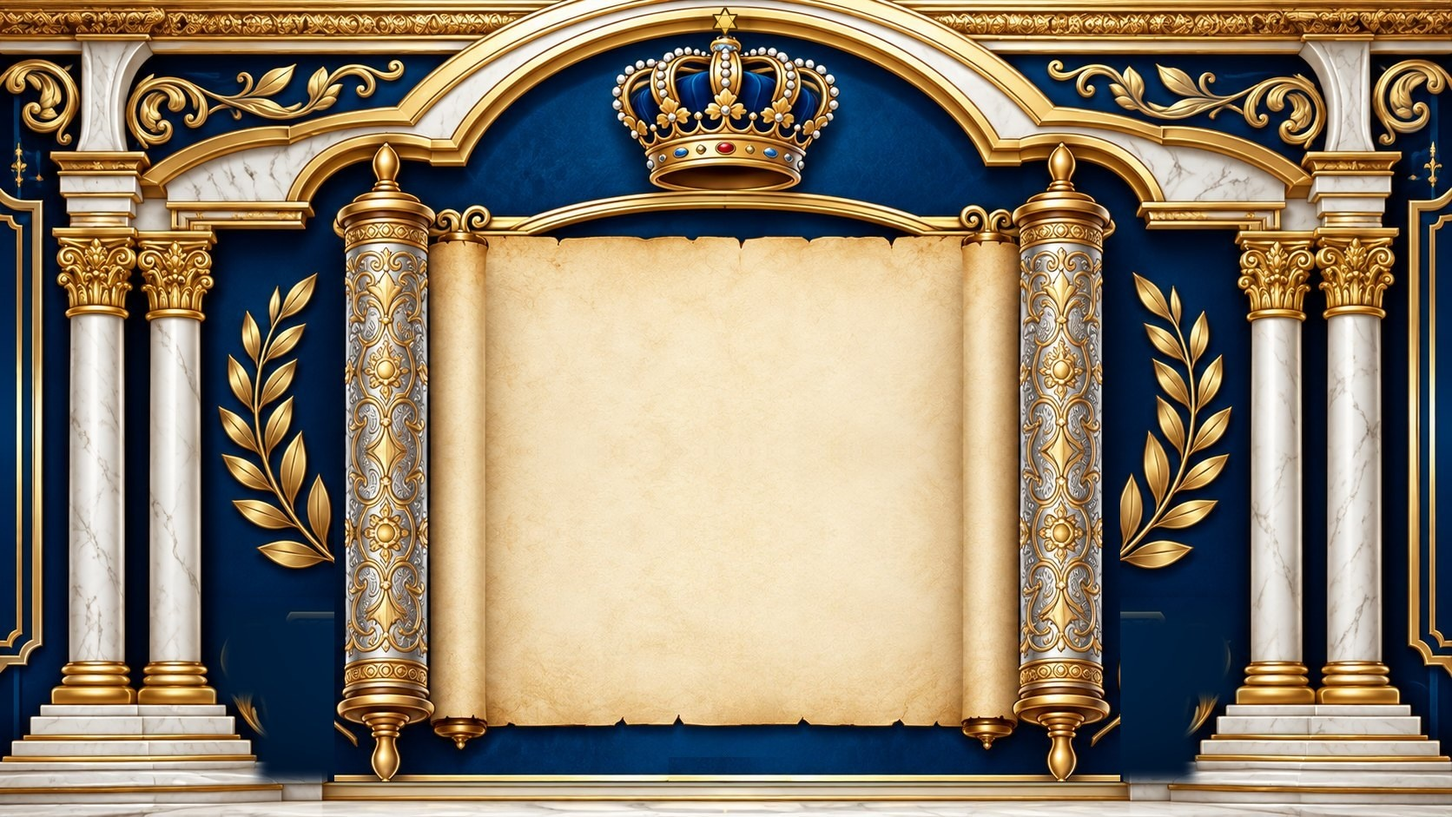
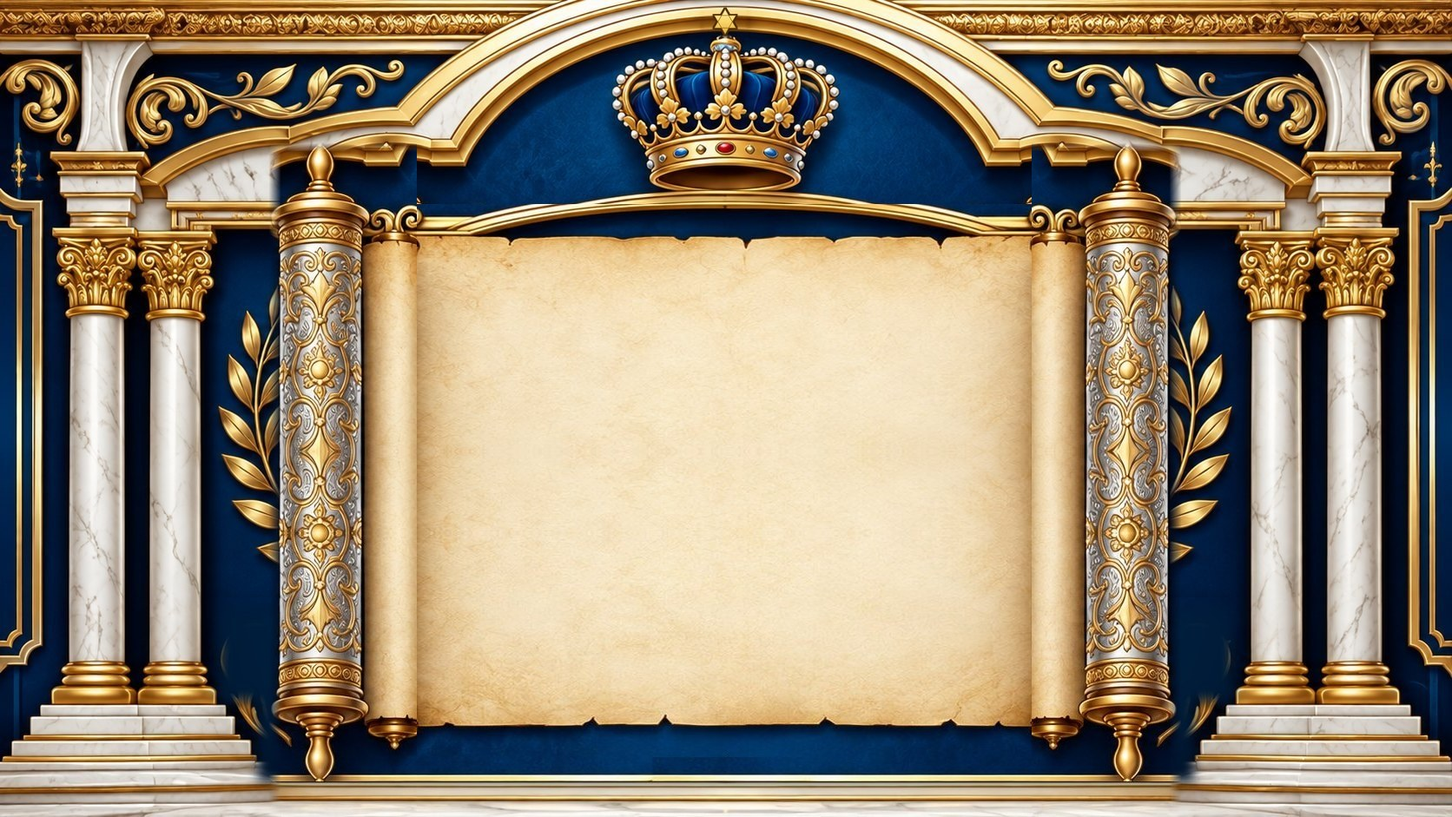
Wider scroll parchment, whole psalm chapter by default (340 letters/page), lessons ordered by days, sw v86
Claude-Session: https://claude.ai/code/session_019PHtGJZNovGA8exQxnNc5q

diff --git a/app/admin/tabs/ContentTab.js b/app/admin/tabs/ContentTab.js
@@ -281,7 +281,7 @@ function Sponsors({ sid, cols }) {
 
 /** ---- daily psalm: Tehilim of the day (auto by the Hebrew day of month / manual chapter / custom text), full-screen slide with live preview ---- */
 function PsalmsDaily({ st, set }) {
-  const c = { ...PS_DEFAULT, ...(st.psalmsConfig || {}) }, h = hebOf(new Date(), false), abs = nowAbs(h), pages = psalmsPages(c, h, abs, c.show === 'block' ? 120 : 230), [pi0, setPi] = useState(0), pi = Math.min(pi0, Math.max(0, pages.length - 1)), cur = pages[pi];
+  const c = { ...PS_DEFAULT, ...(st.psalmsConfig || {}) }, h = hebOf(new Date(), false), abs = nowAbs(h), pages = psalmsPages(c, h, abs, c.show === 'block' ? 120 : 340), [pi0, setPi] = useState(0), pi = Math.min(pi0, Math.max(0, pages.length - 1)), cur = pages[pi];
   const tot = pages.length * Math.min(30, Math.max(5, +c.duration || 15)), mm = Math.floor(tot / 60), ss = tot % 60;
   const M = [['auto', 'אוטומטי · לפי היום בחודש העברי'], ['manual', 'ידני · פרק מסוים'], ['custom', 'טקסט מותאם']];
   return (<>
@@ -291,7 +291,7 @@ function PsalmsDaily({ st, set }) {
       <label>איפה להציג</label>
       <div className="pills" style={{ flexWrap: 'wrap' }}>{[['full', '🖥 מסך מלא'], ['block', '🎞 בקרוסלה (בלוח המרכזי)']].map(([k, l]) => <button key={k} className={`opt ${(c.show || 'full') === k ? 'on' : ''}`} onClick={() => { set('psalmsConfig.show', k); setPi(0); }}>{l}</button>)}</div>
       <label>קצב התצוגה</label>
-      <div className="pills" style={{ flexWrap: 'wrap' }}>{[['page', 'עמוד אחד בכל סבב (מומלץ)'], ['whole', 'כל הפרק ברצף']].map(([k, l]) => <button key={k} className={`opt ${(c.pace || 'page') === k ? 'on' : ''}`} onClick={() => set('psalmsConfig.pace', k)}>{l}</button>)}</div>
+      <div className="pills" style={{ flexWrap: 'wrap' }}>{[['whole', 'כל הפרק ברצף, ואז ממשיכות השקופיות (מומלץ)'], ['page', 'עמוד אחד בכל סבב']].map(([k, l]) => <button key={k} className={`opt ${(c.pace || 'whole') === k ? 'on' : ''}`} onClick={() => set('psalmsConfig.pace', k)}>{l}</button>)}</div>
       <label>תדירות</label>
       <select value={c.every || 1} onChange={(e) => set('psalmsConfig.every', +e.target.value)}>{[1, 2, 3, 5, 10].map((n) => <option key={n} value={n}>{n === 1 ? 'בכל סבב של הקרוסלה' : `פעם ב-${n} סבבים`}</option>)}</select>
       <label>מצב</label>
@@ -301,7 +301,7 @@ function PsalmsDaily({ st, set }) {
       {c.mode === 'custom' && <><label>כותרת</label><TextIn value={c.customTitle} onSave={(v) => set('psalmsConfig.customTitle', v)} /><label>הטקסט (כל שורה = פסקה)</label><TextIn value={c.customText} onSave={(v) => { set('psalmsConfig.customText', v); setPi(0); }} area /></>}
       <label>הקדשה מיוחדת מעל הפרק (למשל: לרפואת …)</label><TextIn value={c.dedicationText} onSave={(v) => set('psalmsConfig.dedicationText', v)} />
       <Range label="זמן תצוגה לכל עמוד (שניות, עד 30)" min={5} max={30} value={c.duration} onChange={(v) => set('psalmsConfig.duration', v)} />
-      {pages.length > 0 && <div style={{ color: 'var(--mu)', fontSize: 13 }}>{(c.pace || 'page') === 'page' ? `הפרק מתחלק ל-${pages.length} עמודים. בכל סבב קרוסלה יוצג עמוד אחד בלבד (${Math.min(30, Math.max(5, +c.duration || 15))} שנ׳), והמשך הפרק בסבב הבא${(+c.every || 1) > 1 ? ` (פעם ב-${c.every} סבבים)` : ''}.` : `כל הפרק ברצף: ${pages.length} עמודים · כ-${mm ? mm + ' דק׳ ' : ''}${ss ? ss + ' שנ׳' : ''} בסך הכול.`}</div>}
+      {pages.length > 0 && <div style={{ color: 'var(--mu)', fontSize: 13 }}>{(c.pace || 'whole') === 'page' ? `הפרק מתחלק ל-${pages.length} עמודים. בכל סבב קרוסלה יוצג עמוד אחד בלבד (${Math.min(30, Math.max(5, +c.duration || 15))} שנ׳), והמשך הפרק בסבב הבא${(+c.every || 1) > 1 ? ` (פעם ב-${c.every} סבבים)` : ''}.` : `כל הפרק ברצף: ${pages.length} עמודים · כ-${mm ? mm + ' דק׳ ' : ''}${ss ? ss + ' שנ׳' : ''} בסך הכול.`}</div>}
       <label>מסך</label><ScreenSel value={c.screen} onChange={(v) => set('psalmsConfig.screen', v)} />
     </Card>
     <Card title="תצוגה מקדימה">

diff --git a/synagogue-board/app/admin/tabs/ContentTab.js b/synagogue-board/app/admin/tabs/ContentTab.js
@@ -281,7 +281,7 @@ function Sponsors({ sid, cols }) {
 
 /** ---- daily psalm: Tehilim of the day (auto by the Hebrew day of month / manual chapter / custom text), full-screen slide with live preview ---- */
 function PsalmsDaily({ st, set }) {
-  const c = { ...PS_DEFAULT, ...(st.psalmsConfig || {}) }, h = hebOf(new Date(), false), abs = nowAbs(h), pages = psalmsPages(c, h, abs, c.show === 'block' ? 120 : 230), [pi0, setPi] = useState(0), pi = Math.min(pi0, Math.max(0, pages.length - 1)), cur = pages[pi];
+  const c = { ...PS_DEFAULT, ...(st.psalmsConfig || {}) }, h = hebOf(new Date(), false), abs = nowAbs(h), pages = psalmsPages(c, h, abs, c.show === 'block' ? 120 : 340), [pi0, setPi] = useState(0), pi = Math.min(pi0, Math.max(0, pages.length - 1)), cur = pages[pi];
   const tot = pages.length * Math.min(30, Math.max(5, +c.duration || 15)), mm = Math.floor(tot / 60), ss = tot % 60;
   const M = [['auto', 'אוטומטי · לפי היום בחודש העברי'], ['manual', 'ידני · פרק מסוים'], ['custom', 'טקסט מותאם']];
   return (<>
@@ -291,7 +291,7 @@ function PsalmsDaily({ st, set }) {
       <label>איפה להציג</label>
       <div className="pills" style={{ flexWrap: 'wrap' }}>{[['full', '🖥 מסך מלא'], ['block', '🎞 בקרוסלה (בלוח המרכזי)']].map(([k, l]) => <button key={k} className={`opt ${(c.show || 'full') === k ? 'on' : ''}`} onClick={() => { set('psalmsConfig.show', k); setPi(0); }}>{l}</button>)}</div>
       <label>קצב התצוגה</label>
-      <div className="pills" style={{ flexWrap: 'wrap' }}>{[['page', 'עמוד אחד בכל סבב (מומלץ)'], ['whole', 'כל הפרק ברצף']].map(([k, l]) => <button key={k} className={`opt ${(c.pace || 'page') === k ? 'on' : ''}`} onClick={() => set('psalmsConfig.pace', k)}>{l}</button>)}</div>
+      <div className="pills" style={{ flexWrap: 'wrap' }}>{[['whole', 'כל הפרק ברצף, ואז ממשיכות השקופיות (מומלץ)'], ['page', 'עמוד אחד בכל סבב']].map(([k, l]) => <button key={k} className={`opt ${(c.pace || 'whole') === k ? 'on' : ''}`} onClick={() => set('psalmsConfig.pace', k)}>{l}</button>)}</div>
       <label>תדירות</label>
       <select value={c.every || 1} onChange={(e) => set('psalmsConfig.every', +e.target.value)}>{[1, 2, 3, 5, 10].map((n) => <option key={n} value={n}>{n === 1 ? 'בכל סבב של הקרוסלה' : `פעם ב-${n} סבבים`}</option>)}</select>
       <label>מצב</label>
@@ -301,7 +301,7 @@ function PsalmsDaily({ st, set }) {
       {c.mode === 'custom' && <><label>כותרת</label><TextIn value={c.customTitle} onSave={(v) => set('psalmsConfig.customTitle', v)} /><label>הטקסט (כל שורה = פסקה)</label><TextIn value={c.customText} onSave={(v) => { set('psalmsConfig.customText', v); setPi(0); }} area /></>}
       <label>הקדשה מיוחדת מעל הפרק (למשל: לרפואת …)</label><TextIn value={c.dedicationText} onSave={(v) => set('psalmsConfig.dedicationText', v)} />
       <Range label="זמן תצוגה לכל עמוד (שניות, עד 30)" min={5} max={30} value={c.duration} onChange={(v) => set('psalmsConfig.duration', v)} />
-      {pages.length > 0 && <div style={{ color: 'var(--mu)', fontSize: 13 }}>{(c.pace || 'page') === 'page' ? `הפרק מתחלק ל-${pages.length} עמודים. בכל סבב קרוסלה יוצג עמוד אחד בלבד (${Math.min(30, Math.max(5, +c.duration || 15))} שנ׳), והמשך הפרק בסבב הבא${(+c.every || 1) > 1 ? ` (פעם ב-${c.every} סבבים)` : ''}.` : `כל הפרק ברצף: ${pages.length} עמודים · כ-${mm ? mm + ' דק׳ ' : ''}${ss ? ss + ' שנ׳' : ''} בסך הכול.`}</div>}
+      {pages.length > 0 && <div style={{ color: 'var(--mu)', fontSize: 13 }}>{(c.pace || 'whole') === 'page' ? `הפרק מתחלק ל-${pages.length} עמודים. בכל סבב קרוסלה יוצג עמוד אחד בלבד (${Math.min(30, Math.max(5, +c.duration || 15))} שנ׳), והמשך הפרק בסבב הבא${(+c.every || 1) > 1 ? ` (פעם ב-${c.every} סבבים)` : ''}.` : `כל הפרק ברצף: ${pages.length} עמודים · כ-${mm ? mm + ' דק׳ ' : ''}${ss ? ss + ' שנ׳' : ''} בסך הכול.`}</div>}
       <label>מסך</label><ScreenSel value={c.screen} onChange={(v) => set('psalmsConfig.screen', v)} />
     </Card>
     <Card title="תצוגה מקדימה">

diff --git a/components/Display.js b/components/Display.js
@@ -10,7 +10,7 @@ import { useSynagogue } from '@/lib/hooks';
 import { dayType, fmt, getPrayersForToday, getZmanim, isShabbat, prayerTime, zOpts, zmanimRows } from '@/lib/zmanim';
 import { haftaraHe } from '@/lib/haftara';
 import { isLive, pickDaily } from '@/lib/dailyHalacha';
-import { annOn, chagInfo, fullName, LESSON_TYPES, lessonDaysLabel, lessonLabel, lessonOn, lessonType, lessonWho, gem, hebOf, holNames, memOn, nowAbs, monthName, parshaInfo, rdOf, refuahOn, reminders } from '@/lib/hebrew';
+import { annOn, chagInfo, fullName, LESSON_TYPES, lessonDays, lessonDaysLabel, lessonLabel, lessonOn, lessonType, lessonWho, gem, hebOf, holNames, memOn, nowAbs, monthName, parshaInfo, rdOf, refuahOn, reminders } from '@/lib/hebrew';
 import { DEFAULT_SETTINGS, FONTS, SCREENS, tbgKeyOf, tbgPath } from '@/lib/types';
 import { DEMO_PRAYERS, DEMO_SYN } from '@/lib/defaults';
 
@@ -223,13 +223,13 @@ function Inner({ syn, cols, screenId, now, size, status, preview, diag, authErr 
   const dh = { on: false, src: 'live_hy', mode: 'block', secs: 20, manual: '', ...(st.dh || {}) };
   const dhItem = dh.on && dh.mode !== 'off' ? (String(dh.manual || '').trim() ? { title: 'הלכה יומית', content: String(dh.manual).trim(), source: '' } : (isLive(dh.src) && dhLive) ? dhLive : pickDaily({ src: dh.src, dayNum: rdOf(now, 0), holidays: holNames(now, !!z.shkia && z.now >= z.shkia), dow: z.dow })) : null;
   { const pc = st.psalmsConfig; if (pc?.on && onS(pc.screen) && psq.rnd % Math.max(1, Math.min(10, +pc.every || 1)) === 0) {
-    const blk = pc.show === 'block', all = psalmsPages(pc, h, nowAbs(h), blk ? 120 : 230); // 'page' pace: ONE page per carousel round, the next page next round
-    const pages = pc.pace === 'whole' ? all : all.length ? [all[psq.seq % all.length]] : [];
+    const blk = pc.show === 'block', all = psalmsPages(pc, h, nowAbs(h), blk ? 120 : 340); // 'page' pace: ONE page per carousel round, the next page next round
+    const pages = pc.pace === 'page' ? (all.length ? [all[psq.seq % all.length]] : []) : all; // default: the whole chapter in one go, then the carousel continues
     if (pages.length) slides.push({ k: 'ps', pages, ded: pc.dedicationText, full: !blk, blk, dur: Math.min(30, Math.max(5, +pc.duration || 15)) }); } }
   if (dhItem) slides.push({ k: 'dh', d: dhItem, full: dh.mode === 'full', dur: Math.min(60, Math.max(10, +dh.secs || 20)) });
   // lessons + psalms: ONE combined slide (today / whole week) when enabled, otherwise one slide per lesson
   const ls = { mode: 'off', secs: 12, scope: 'today', ...(st.lsAll || {}) }, lsm = ls.mode === 'full' ? 'popup' : ls.mode, lsMin = (t) => { const m = /(\d+):(\d+)/.exec(t || ''); return m ? +m[1] * 60 + +m[2] : 1e4; };
-  const lsRows = lessons.filter((l) => ls.scope === 'week' || lessonOn(l, dt, z.dow)).map((l) => ({ l, time: prayerTime(l, z) })).sort((a, b) => lsMin(a.time) - lsMin(b.time));
+  const lsRows = lessons.filter((l) => ls.scope === 'week' || lessonOn(l, dt, z.dow)).map((l) => ({ l, time: prayerTime(l, z) })).sort((a, b) => (ls.scope === 'week' ? Math.min(...lessonDays(a.l), 9) - Math.min(...lessonDays(b.l), 9) : 0) || lsMin(a.time) - lsMin(b.time)); // week = ordered by days (Sun…Shabbat), then by time
   if ((lsm === 'block' || lsm === 'popup') && lsRows.length) slides.push({ k: 'ls', rows: lsRows, popup: lsm === 'popup', dur: Math.min(60, Math.max(5, +ls.secs || 12)) });
   else lessons.filter((l) => lessonOn(l, dt, z.dow)).forEach((l) => slides.push({ k: 'l', l, time: prayerTime(l, z), full: modeOf(l) === 'full', dur: cf('ann').secs }));
   // prayer times: ONE combined slide/popup listing all of today's selected prayers (off = top bar only; legacy 'full' = popup)

diff --git a/synagogue-board/components/Display.js b/synagogue-board/components/Display.js
@@ -10,7 +10,7 @@ import { useSynagogue } from '@/lib/hooks';
 import { dayType, fmt, getPrayersForToday, getZmanim, isShabbat, prayerTime, zOpts, zmanimRows } from '@/lib/zmanim';
 import { haftaraHe } from '@/lib/haftara';
 import { isLive, pickDaily } from '@/lib/dailyHalacha';
-import { annOn, chagInfo, fullName, LESSON_TYPES, lessonDaysLabel, lessonLabel, lessonOn, lessonType, lessonWho, gem, hebOf, holNames, memOn, nowAbs, monthName, parshaInfo, rdOf, refuahOn, reminders } from '@/lib/hebrew';
+import { annOn, chagInfo, fullName, LESSON_TYPES, lessonDays, lessonDaysLabel, lessonLabel, lessonOn, lessonType, lessonWho, gem, hebOf, holNames, memOn, nowAbs, monthName, parshaInfo, rdOf, refuahOn, reminders } from '@/lib/hebrew';
 import { DEFAULT_SETTINGS, FONTS, SCREENS, tbgKeyOf, tbgPath } from '@/lib/types';
 import { DEMO_PRAYERS, DEMO_SYN } from '@/lib/defaults';
 
@@ -223,13 +223,13 @@ function Inner({ syn, cols, screenId, now, size, status, preview, diag, authErr 
   const dh = { on: false, src: 'live_hy', mode: 'block', secs: 20, manual: '', ...(st.dh || {}) };
   const dhItem = dh.on && dh.mode !== 'off' ? (String(dh.manual || '').trim() ? { title: 'הלכה יומית', content: String(dh.manual).trim(), source: '' } : (isLive(dh.src) && dhLive) ? dhLive : pickDaily({ src: dh.src, dayNum: rdOf(now, 0), holidays: holNames(now, !!z.shkia && z.now >= z.shkia), dow: z.dow })) : null;
   { const pc = st.psalmsConfig; if (pc?.on && onS(pc.screen) && psq.rnd % Math.max(1, Math.min(10, +pc.every || 1)) === 0) {
-    const blk = pc.show === 'block', all = psalmsPages(pc, h, nowAbs(h), blk ? 120 : 230); // 'page' pace: ONE page per carousel round, the next page next round
-    const pages = pc.pace === 'whole' ? all : all.length ? [all[psq.seq % all.length]] : [];
+    const blk = pc.show === 'block', all = psalmsPages(pc, h, nowAbs(h), blk ? 120 : 340); // 'page' pace: ONE page per carousel round, the next page next round
+    const pages = pc.pace === 'page' ? (all.length ? [all[psq.seq % all.length]] : []) : all; // default: the whole chapter in one go, then the carousel continues
     if (pages.length) slides.push({ k: 'ps', pages, ded: pc.dedicationText, full: !blk, blk, dur: Math.min(30, Math.max(5, +pc.duration || 15)) }); } }
   if (dhItem) slides.push({ k: 'dh', d: dhItem, full: dh.mode === 'full', dur: Math.min(60, Math.max(10, +dh.secs || 20)) });
   // lessons + psalms: ONE combined slide (today / whole week) when enabled, otherwise one slide per lesson
   const ls = { mode: 'off', secs: 12, scope: 'today', ...(st.lsAll || {}) }, lsm = ls.mode === 'full' ? 'popup' : ls.mode, lsMin = (t) => { const m = /(\d+):(\d+)/.exec(t || ''); return m ? +m[1] * 60 + +m[2] : 1e4; };
-  const lsRows = lessons.filter((l) => ls.scope === 'week' || lessonOn(l, dt, z.dow)).map((l) => ({ l, time: prayerTime(l, z) })).sort((a, b) => lsMin(a.time) - lsMin(b.time));
+  const lsRows = lessons.filter((l) => ls.scope === 'week' || lessonOn(l, dt, z.dow)).map((l) => ({ l, time: prayerTime(l, z) })).sort((a, b) => (ls.scope === 'week' ? Math.min(...lessonDays(a.l), 9) - Math.min(...lessonDays(b.l), 9) : 0) || lsMin(a.time) - lsMin(b.time)); // week = ordered by days (Sun…Shabbat), then by time
   if ((lsm === 'block' || lsm === 'popup') && lsRows.length) slides.push({ k: 'ls', rows: lsRows, popup: lsm === 'popup', dur: Math.min(60, Math.max(5, +ls.secs || 12)) });
   else lessons.filter((l) => lessonOn(l, dt, z.dow)).forEach((l) => slides.push({ k: 'l', l, time: prayerTime(l, z), full: modeOf(l) === 'full', dur: cf('ann').secs }));
   // prayer times: ONE combined slide/popup listing all of today's selected prayers (off = top bar only; legacy 'full' = popup)

diff --git a/lib/types.js b/lib/types.js
@@ -24,7 +24,7 @@ export const DEFAULT_SETTINGS = {
   donTitle: '', donSub: '', payUrl: '', tkText: '', subtitle: '', footerText: '',
   zm: { profile: 'ashkenaz', shma: 'gra', tzeit: '8.5', rt: false, netzVisible: true }, hfShow: false, hfText: '', waParsha: true, waHaftara: true,
   vis: {}, cf: {}, blocks: {}, ipp: { yz: 3, rf: 3 },
-  customs: { mode: 'auto', text: '' }, psalmsConfig: { on: false, mode: 'auto', manualChapter: 1, dedicationText: '', duration: 15, customTitle: '', customText: '', screen: 'all', show: 'full', pace: 'page', every: 1 }, ptAll: { mode: 'off', secs: 10 }, lsAll: { mode: 'off', secs: 12, scope: 'today' }, dh: { on: false, src: 'live_hy', mode: 'block', secs: 20, manual: '' }, hl: { mode: 'block', auto: true },
+  customs: { mode: 'auto', text: '' }, psalmsConfig: { on: false, mode: 'auto', manualChapter: 1, dedicationText: '', duration: 15, customTitle: '', customText: '', screen: 'all', show: 'full', pace: 'whole', every: 1 }, ptAll: { mode: 'off', secs: 10 }, lsAll: { mode: 'off', secs: 12, scope: 'today' }, dh: { on: false, src: 'live_hy', mode: 'block', secs: 20, manual: '' }, hl: { mode: 'block', auto: true },
 };
 export const BLOCKS = [['cr', 'כותרת עליונה'], ['hd', 'תאריך וזמני היום'], ['pr', 'פרשת השבוע'], ['cu', 'מנהגי היום / תזכורות'],
   ['mn', 'הודעות והלכה (פאנל מרכזי)'], ['yz', 'לעילוי נשמת'], ['rf', 'רפואה שלמה'], ['qr', 'קוד QR לתרומות'], ['pb', 'זמני תפילות']];

diff --git a/synagogue-board/lib/types.js b/synagogue-board/lib/types.js
@@ -24,7 +24,7 @@ export const DEFAULT_SETTINGS = {
   donTitle: '', donSub: '', payUrl: '', tkText: '', subtitle: '', footerText: '',
   zm: { profile: 'ashkenaz', shma: 'gra', tzeit: '8.5', rt: false, netzVisible: true }, hfShow: false, hfText: '', waParsha: true, waHaftara: true,
   vis: {}, cf: {}, blocks: {}, ipp: { yz: 3, rf: 3 },
-  customs: { mode: 'auto', text: '' }, psalmsConfig: { on: false, mode: 'auto', manualChapter: 1, dedicationText: '', duration: 15, customTitle: '', customText: '', screen: 'all', show: 'full', pace: 'page', every: 1 }, ptAll: { mode: 'off', secs: 10 }, lsAll: { mode: 'off', secs: 12, scope: 'today' }, dh: { on: false, src: 'live_hy', mode: 'block', secs: 20, manual: '' }, hl: { mode: 'block', auto: true },
+  customs: { mode: 'auto', text: '' }, psalmsConfig: { on: false, mode: 'auto', manualChapter: 1, dedicationText: '', duration: 15, customTitle: '', customText: '', screen: 'all', show: 'full', pace: 'whole', every: 1 }, ptAll: { mode: 'off', secs: 10 }, lsAll: { mode: 'off', secs: 12, scope: 'today' }, dh: { on: false, src: 'live_hy', mode: 'block', secs: 20, manual: '' }, hl: { mode: 'block', auto: true },
 };
 export const BLOCKS = [['cr', 'כותרת עליונה'], ['hd', 'תאריך וזמני היום'], ['pr', 'פרשת השבוע'], ['cu', 'מנהגי היום / תזכורות'],
   ['mn', 'הודעות והלכה (פאנל מרכזי)'], ['yz', 'לעילוי נשמת'], ['rf', 'רפואה שלמה'], ['qr', 'קוד QR לתרומות'], ['pb', 'זמני תפילות']];

diff --git a/lib/psalms.js b/lib/psalms.js
@@ -3,7 +3,7 @@ import PSALMS from './psalms.json'; // 150 chapters, full niqqud (Westminster Le
 import { gem, nowAbs } from './hebrew';
 
 export const PSALMS_TEXT = PSALMS;
-export const PS_DEFAULT = { on: false, mode: 'auto', manualChapter: 1, dedicationText: '', duration: 15, customTitle: '', customText: '', screen: 'all', show: 'full', pace: 'page', every: 1 };
+export const PS_DEFAULT = { on: false, mode: 'auto', manualChapter: 1, dedicationText: '', duration: 15, customTitle: '', customText: '', screen: 'all', show: 'full', pace: 'whole', every: 1 };
 /** traditional monthly cycle: [from, to] chapter per Hebrew day of the month (1-30); 119 is split in two (days 25/26) */
 const CYCLE = [[1, 9], [10, 17], [18, 22], [23, 28], [29, 34], [35, 38], [39, 43], [44, 48], [49, 54], [55, 59], [60, 65], [66, 68], [69, 71], [72, 76], [77, 78], [79, 82], [83, 87], [88, 89], [90, 96], [97, 103], [104, 105], [106, 107], [108, 112], [113, 118], [119, 119, 1], [119, 119, 2], [120, 134], [135, 139], [140, 144], [145, 150]];
 const hadar = (n) => 'פרק ' + gem(n);
@@ -32,7 +32,7 @@ function pagesOfChapter(n, half, PAGE) {
 }
 
 /** pages of the slide for a config (mode auto | manual | custom) */
-export function psalmsPages(cfg, h, abs, PAGE = 230) {
+export function psalmsPages(cfg, h, abs, PAGE = 340) {
   const c = { ...PS_DEFAULT, ...(cfg || {}) };
   if (c.mode === 'custom') {
     const body = String(c.customText || '').split(/\n+/).map((x) => x.trim()).filter(Boolean), out = []; let cur = [], len = 0;

diff --git a/synagogue-board/lib/psalms.js b/synagogue-board/lib/psalms.js
@@ -3,7 +3,7 @@ import PSALMS from './psalms.json'; // 150 chapters, full niqqud (Westminster Le
 import { gem, nowAbs } from './hebrew';
 
 export const PSALMS_TEXT = PSALMS;
-export const PS_DEFAULT = { on: false, mode: 'auto', manualChapter: 1, dedicationText: '', duration: 15, customTitle: '', customText: '', screen: 'all', show: 'full', pace: 'page', every: 1 };
+export const PS_DEFAULT = { on: false, mode: 'auto', manualChapter: 1, dedicationText: '', duration: 15, customTitle: '', customText: '', screen: 'all', show: 'full', pace: 'whole', every: 1 };
 /** traditional monthly cycle: [from, to] chapter per Hebrew day of the month (1-30); 119 is split in two (days 25/26) */
 const CYCLE = [[1, 9], [10, 17], [18, 22], [23, 28], [29, 34], [35, 38], [39, 43], [44, 48], [49, 54], [55, 59], [60, 65], [66, 68], [69, 71], [72, 76], [77, 78], [79, 82], [83, 87], [88, 89], [90, 96], [97, 103], [104, 105], [106, 107], [108, 112], [113, 118], [119, 119, 1], [119, 119, 2], [120, 134], [135, 139], [140, 144], [145, 150]];
 const hadar = (n) => 'פרק ' + gem(n);
@@ -32,7 +32,7 @@ function pagesOfChapter(n, half, PAGE) {
 }
 
 /** pages of the slide for a config (mode auto | manual | custom) */
-export function psalmsPages(cfg, h, abs, PAGE = 230) {
+export function psalmsPages(cfg, h, abs, PAGE = 340) {
   const c = { ...PS_DEFAULT, ...(cfg || {}) };
   if (c.mode === 'custom') {
     const body = String(c.customText || '').split(/\n+/).map((x) => x.trim()).filter(Boolean), out = []; let cur = [], len = 0;

diff --git a/public/sw.js b/public/sw.js
@@ -2,7 +2,7 @@
 //  - /_next/static, /images, /icons, fonts: cache-first (immutable, fast, works offline)
 //  - pages & everything else same-origin: network-first with a 3s timeout, then the cached copy (so a "connected but no internet" Wi-Fi never hangs the screen)
 //  - Firebase / API traffic is never intercepted (Firestore has its own IndexedDB offline cache)
-const V = 'maor-v85', SHELL = ['/', '/display', '/admin', '/login'], FONTS = 'maor-fonts';
+const V = 'maor-v86', SHELL = ['/', '/display', '/admin', '/login'], FONTS = 'maor-fonts';
 self.addEventListener('install', (e) => e.waitUntil(caches.open(V).then((c) => Promise.all(SHELL.map((u) => c.add(u).catch(() => {})))).then(() => self.skipWaiting())));
 self.addEventListener('activate', (e) => e.waitUntil(caches.keys().then((k) => Promise.all(k.filter((x) => x !== V && x !== FONTS).map((x) => caches.delete(x)))).then(() => self.clients.claim())));
 const withTimeout = (p, ms) => new Promise((res, rej) => { const t = setTimeout(() => rej(new Error('timeout')), ms); p.then((v) => { clearTimeout(t); res(v); }, (e) => { clearTimeout(t); rej(e); }); });

diff --git a/synagogue-board/public/sw.js b/synagogue-board/public/sw.js
@@ -2,7 +2,7 @@
 //  - /_next/static, /images, /icons, fonts: cache-first (immutable, fast, works offline)
 //  - pages & everything else same-origin: network-first with a 3s timeout, then the cached copy (so a "connected but no internet" Wi-Fi never hangs the screen)
 //  - Firebase / API traffic is never intercepted (Firestore has its own IndexedDB offline cache)
-const V = 'maor-v85', SHELL = ['/', '/display', '/admin', '/login'], FONTS = 'maor-fonts';
+const V = 'maor-v86', SHELL = ['/', '/display', '/admin', '/login'], FONTS = 'maor-fonts';
 self.addEventListener('install', (e) => e.waitUntil(caches.open(V).then((c) => Promise.all(SHELL.map((u) => c.add(u).catch(() => {})))).then(() => self.skipWaiting())));
 self.addEventListener('activate', (e) => e.waitUntil(caches.keys().then((k) => Promise.all(k.filter((x) => x !== V && x !== FONTS).map((x) => caches.delete(x)))).then(() => self.clients.claim())));
 const withTimeout = (p, ms) => new Promise((res, rej) => { const t = setTimeout(() => rej(new Error('timeout')), ms); p.then((v) => { clearTimeout(t); res(v); }, (e) => { clearTimeout(t); rej(e); }); });

diff --git a/app/globals.css b/app/globals.css
@@ -393,7 +393,7 @@ label{font-size:13px;color:var(--mu)}
 
 /* royal full-screen prayer times: the original royal-scroll background untouched; a transparent container sits exactly on its parchment (between the wooden rollers), two columns of cards */
 .rl-scroll{position:absolute;inset:0;z-index:8;container-type:size;background:#0a1a3a url(/images/templates/royal_scroll_xl.jpg) center/100% 100% no-repeat}
-.rl-sc-card{position:absolute;left:34.6%;top:31%;width:30.8%;height:55.5%;box-sizing:border-box;padding:0;background:transparent;border:0;box-shadow:none}
+.rl-sc-card{position:absolute;left:30.3%;top:31%;width:38.4%;height:55.5%;box-sizing:border-box;padding:0;background:transparent;border:0;box-shadow:none}
 .ptb2{width:100%;height:100%;display:flex;flex-direction:column;align-items:center;gap:1.4cqh;overflow:hidden}
 .ptb2 .pti img{height:min(11cqh,8.5cqw);width:auto;filter:drop-shadow(0 .2cqh .4cqh #0005)}
 .ptg{flex:1;min-height:0;width:100%;display:grid;grid-template-columns:1fr;gap:0 1.2cqw;direction:rtl;align-content:start}

diff --git a/synagogue-board/app/globals.css b/synagogue-board/app/globals.css
@@ -393,7 +393,7 @@ label{font-size:13px;color:var(--mu)}
 
 /* royal full-screen prayer times: the original royal-scroll background untouched; a transparent container sits exactly on its parchment (between the wooden rollers), two columns of cards */
 .rl-scroll{position:absolute;inset:0;z-index:8;container-type:size;background:#0a1a3a url(/images/templates/royal_scroll_xl.jpg) center/100% 100% no-repeat}
-.rl-sc-card{position:absolute;left:34.6%;top:31%;width:30.8%;height:55.5%;box-sizing:border-box;padding:0;background:transparent;border:0;box-shadow:none}
+.rl-sc-card{position:absolute;left:30.3%;top:31%;width:38.4%;height:55.5%;box-sizing:border-box;padding:0;background:transparent;border:0;box-shadow:none}
 .ptb2{width:100%;height:100%;display:flex;flex-direction:column;align-items:center;gap:1.4cqh;overflow:hidden}
 .ptb2 .pti img{height:min(11cqh,8.5cqw);width:auto;filter:drop-shadow(0 .2cqh .4cqh #0005)}
 .ptg{flex:1;min-height:0;width:100%;display:grid;grid-template-columns:1fr;gap:0 1.2cqw;direction:rtl;align-content:start}
